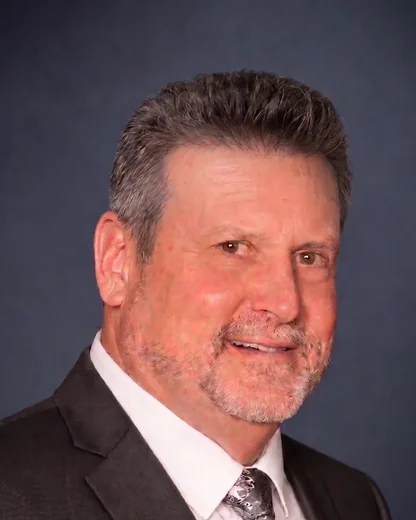
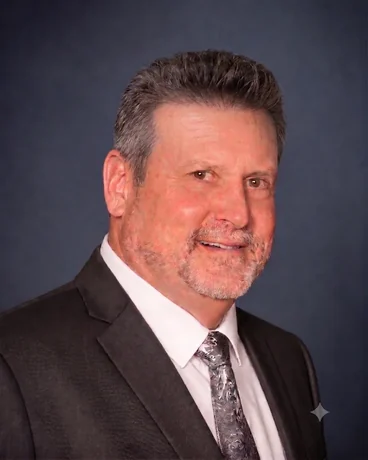
fix: normalize team headshot framing (uniform head size) + smaller cards
Owner feedback: Tracy's photo looked more zoomed-in than the others, and
the cards should be smaller (closer to the loan-card size); imperfections
in the source images shouldn't be magnified by a tight zoom. (Also noted:
Brandon's background is a real photo, not an artifact — no longer treated
as one.)

- Re-cropped all 3 from the wider pre-crop sources (recovered from git
  history) so every head occupies the SAME ~54% of the frame, with
  consistent headroom and eye-line. This is looser than the previous
  crops (more head-and-shoulders, less face-fill), which both makes the
  three visually uniform and de-emphasizes source imperfections.
  Measured each face on a percentage grid to size them identically.
- Uniform output: 368x460 (4/5), 14-17KB each.
- Updated the 3 <img> width/height to 368x460 (CLS-correct).
- Shrunk the team grid further (max-width 680px, was 760) so the cards
  are more compact.

Verification: side-by-side compare confirmed equal head sizes; 3 imgs at
368x460; team-grid max-width 680.

diff --git a/index.html b/index.html
@@ -340,7 +340,7 @@
 
     .team-grid {
       display: grid; grid-template-columns: repeat(3, 1fr);
-      gap: 20px; margin: 0 auto 40px; max-width: 760px;
+      gap: 20px; margin: 0 auto 40px; max-width: 680px;
     }
     .team-card {
       background: var(--white); border-radius: var(--radius);
@@ -819,7 +819,7 @@
 
         <div class="team-grid">
           <article class="team-card">
-            <img src="images/tom-culpepper.webp" alt="Tom Culpepper, Principal Broker at Homesite Mortgage — NMLS #353539" class="team-photo" width="416" height="520" loading="lazy" />
+            <img src="images/tom-culpepper.webp" alt="Tom Culpepper, Principal Broker at Homesite Mortgage — NMLS #353539" class="team-photo" width="368" height="460" loading="lazy" />
             <div class="team-info">
               <h3 class="team-name">Tom Culpepper</h3>
               <div class="team-title">Principal Broker</div>
@@ -828,7 +828,7 @@
           </article>
 
           <article class="team-card">
-            <img src="images/tracy-cody.webp" alt="Tracy Cody, Loan Processing &amp; Closing at Homesite Mortgage — NMLS #886861" class="team-photo" width="416" height="520" loading="lazy" />
+            <img src="images/tracy-cody.webp" alt="Tracy Cody, Loan Processing &amp; Closing at Homesite Mortgage — NMLS #886861" class="team-photo" width="368" height="460" loading="lazy" />
             <div class="team-info">
               <h3 class="team-name">Tracy Cody</h3>
               <div class="team-title">Loan Processing &amp; Closing</div>
@@ -837,7 +837,7 @@
           </article>
 
           <article class="team-card">
-            <img src="images/brandon-culpepper.webp" alt="Brandon Culpepper, Mortgage Loan Originator at Homesite Mortgage — NMLS #1577726" class="team-photo" width="416" height="520" loading="lazy" />
+            <img src="images/brandon-culpepper.webp" alt="Brandon Culpepper, Mortgage Loan Originator at Homesite Mortgage — NMLS #1577726" class="team-photo" width="368" height="460" loading="lazy" />
             <div class="team-info">
               <h3 class="team-name">Brandon Culpepper</h3>
               <div class="team-title">Mortgage Loan Originator</div>
